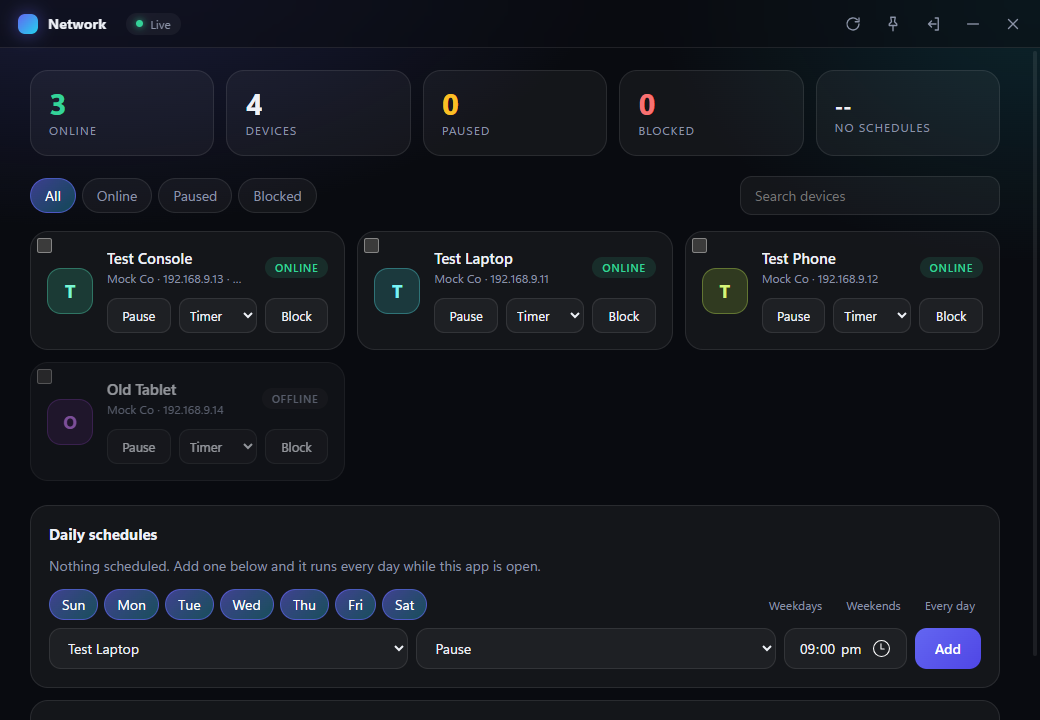
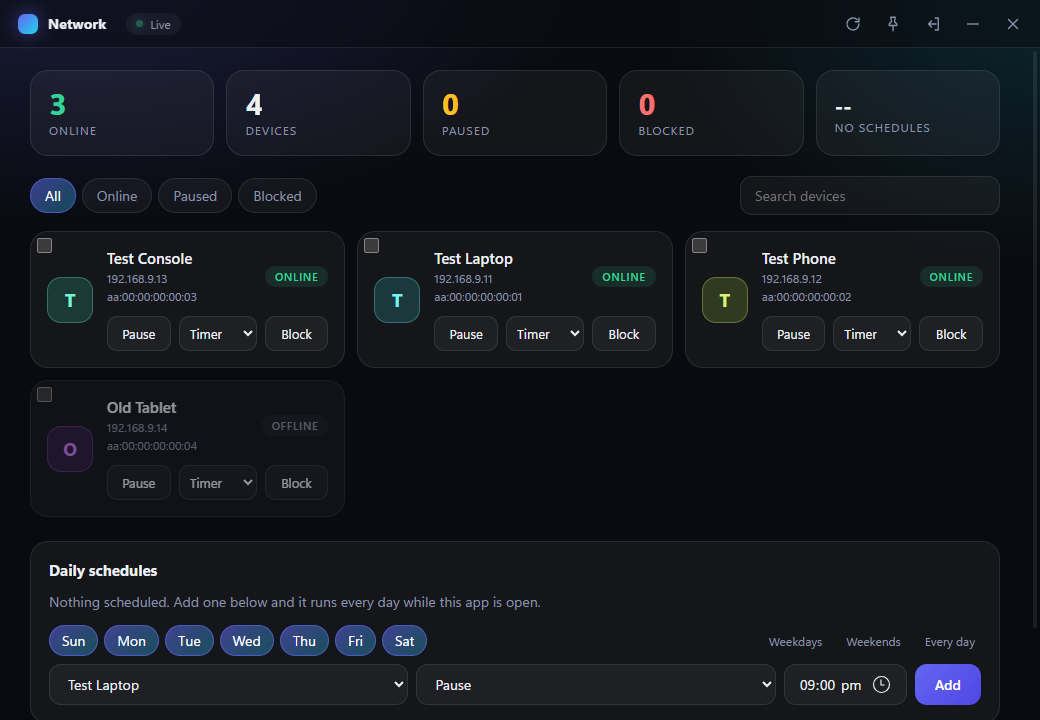
Release 0.1.1: three-line device cards
Bump the version, point the README install step at the 0.1.1 installer, and refresh the screenshot to show the new card layout.

diff --git a/README.md b/README.md
@@ -10,7 +10,7 @@ This guide is for people who use the app. To build it from source, run `cargo bu
 
 ## Install
 
-1. Download `Tollgate_0.1.0_x64-setup.exe` from the [latest release](https://github.com/mewtcor/tollgate/releases/latest).
+1. Download `Tollgate_0.1.1_x64-setup.exe` from the [latest release](https://github.com/mewtcor/tollgate/releases/latest).
 2. Run the installer.
 3. If Windows shows "Windows protected your PC", click **More info**, then **Run anyway**. The installer is not code-signed, so Windows warns about every new download.
 
